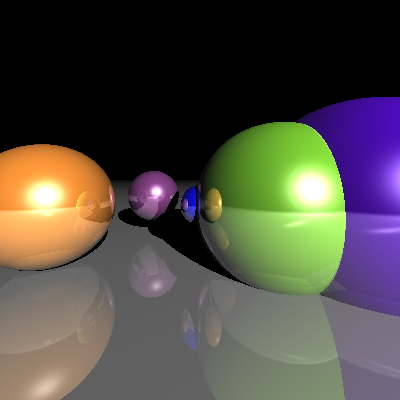
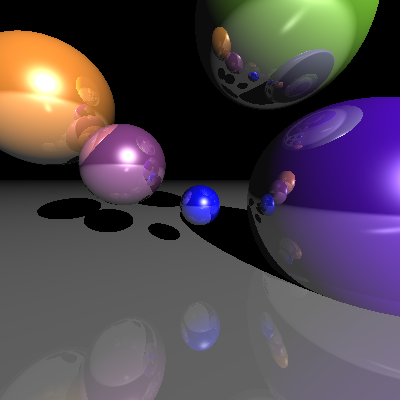
add more image samples

diff --git a/raytrace.py b/raytrace.py
@@ -117,10 +117,20 @@ def add_plano(position, normal):
 color_plane0 = 1. * np.ones(3)
 color_plane1 = 1. * np.ones(3)
 scene = [add_esfera([.0, .1, 1.], .2, [0., 0., 1.]),
-         add_esfera([-.75, .1, 2.25], .4, [.5, .223, .5]),
-         add_esfera([-1.5, .1, 1.], .6, [1., .572, .184]),
-         add_esfera([0.75, .1, 1.], .8, [0.5, .863, .184]),
-         add_esfera([1.5, 3, 3.], 1.0, [0.321, 0., .864]),
+         add_esfera([-.75, .5, 1.], .5, [.5, .223, .5]),
+         add_esfera([-1.5, 1.1, 1.], .2, [1., .572, .184]),
+         add_esfera([0.75, 1.9, 1.], .5, [0.5, .863, .184]),
+         add_esfera([1.5, .1, 1.], .1, [0.321, 0., .864]),
+         add_esfera([.0, .1, 0.5], .4, [0., 0., 1.]),
+         add_esfera([-.75, .7, 0.5], .2, [.5, .223, .5]),
+         add_esfera([-1.5, 1.2, 0.5], .3, [1., .572, .184]),
+         add_esfera([0.75, 1.6, 0.5], .5, [0.5, .863, .184]),
+         add_esfera([1.5, .15, 0.5], .1, [0.321, 0., .864]),
+         add_esfera([0.75, .1, 1.5], .2, [0., 0., 1.]),
+         add_esfera([1.5, .5, 1.5], .4, [.5, .223, .5]),
+         add_esfera([-1.5, 1.1, 1.5], .5, [1., .572, .184]),
+         add_esfera([0., 1.9, 1.5], .2, [0.5, .863, .184]),
+         add_esfera([-.75, .1, 1.5], .3, [0.321, 0., .864]),
          add_plano([0., -.5, 0.], [0., 1., 0.]),
     ]
 
@@ -172,4 +182,4 @@ for i, x in enumerate(np.linspace(S[0], S[2], w)):
             reflection *= obj.get('reflection', 1.)
         img[h - j - 1, i, :] = np.clip(col, 0, 1)
 
-plt.imsave('raytracing2.png', img)
+plt.imsave('raytracing4.png', img)
